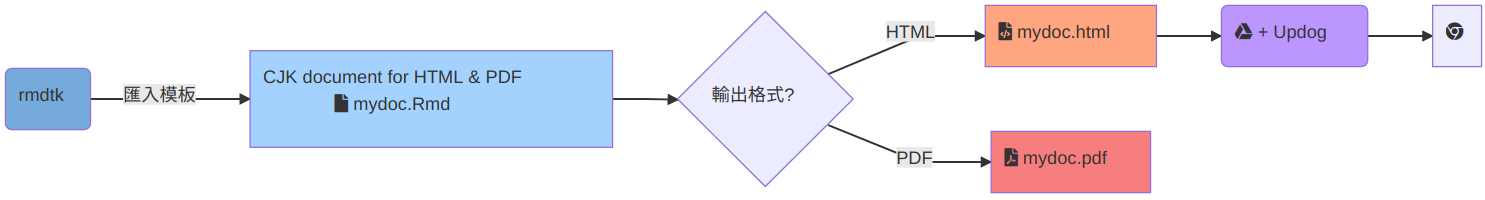
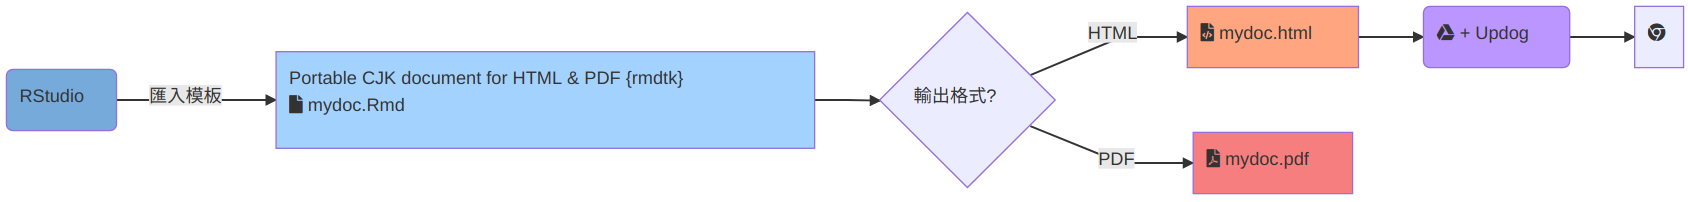
up

diff --git a/docs/slide/index.html b/docs/slide/index.html
@@ -1583,6 +1583,12 @@ class: center
 
 ![:scale 100%](img/part1_wrapup_lr.png)
 
+???
+這張流程圖是把剛剛講過的重點整理在一起。
+
+如果你之後什麼都忘記了，至少要看得懂這張流程圖。看得懂這張流程圖，就代表你會使用 R Markdown。
+
+
 ---
 
 
